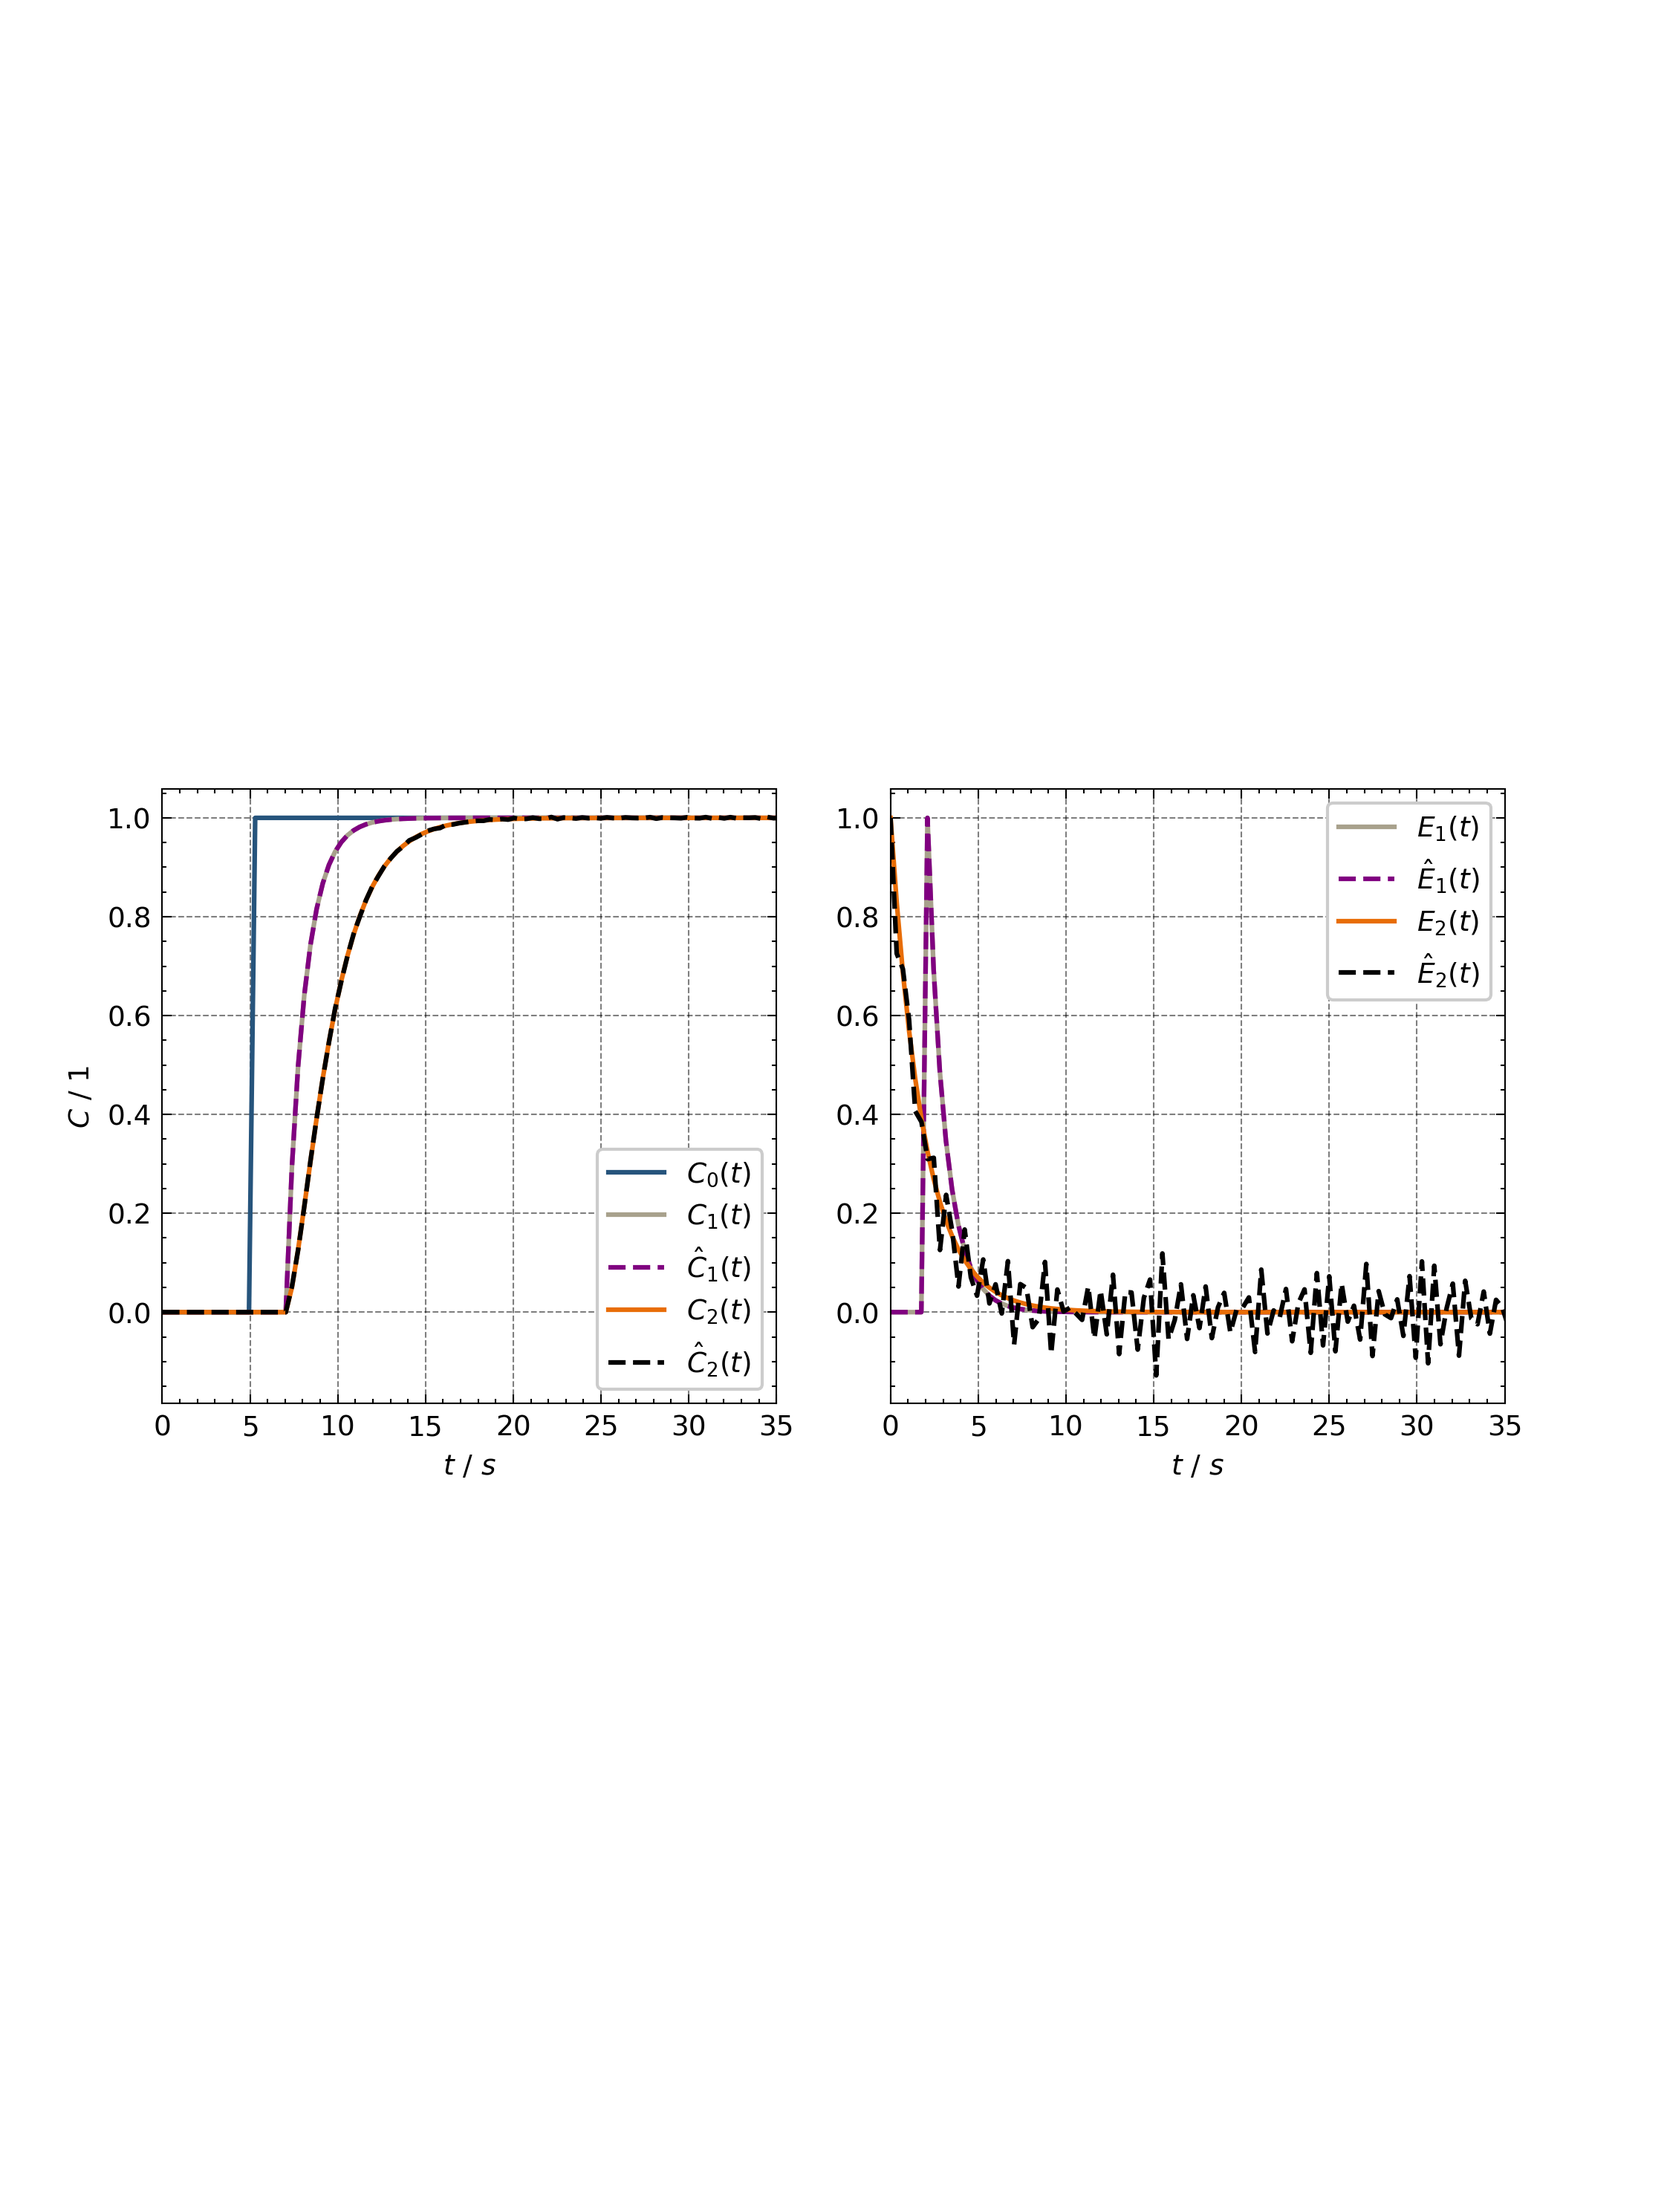
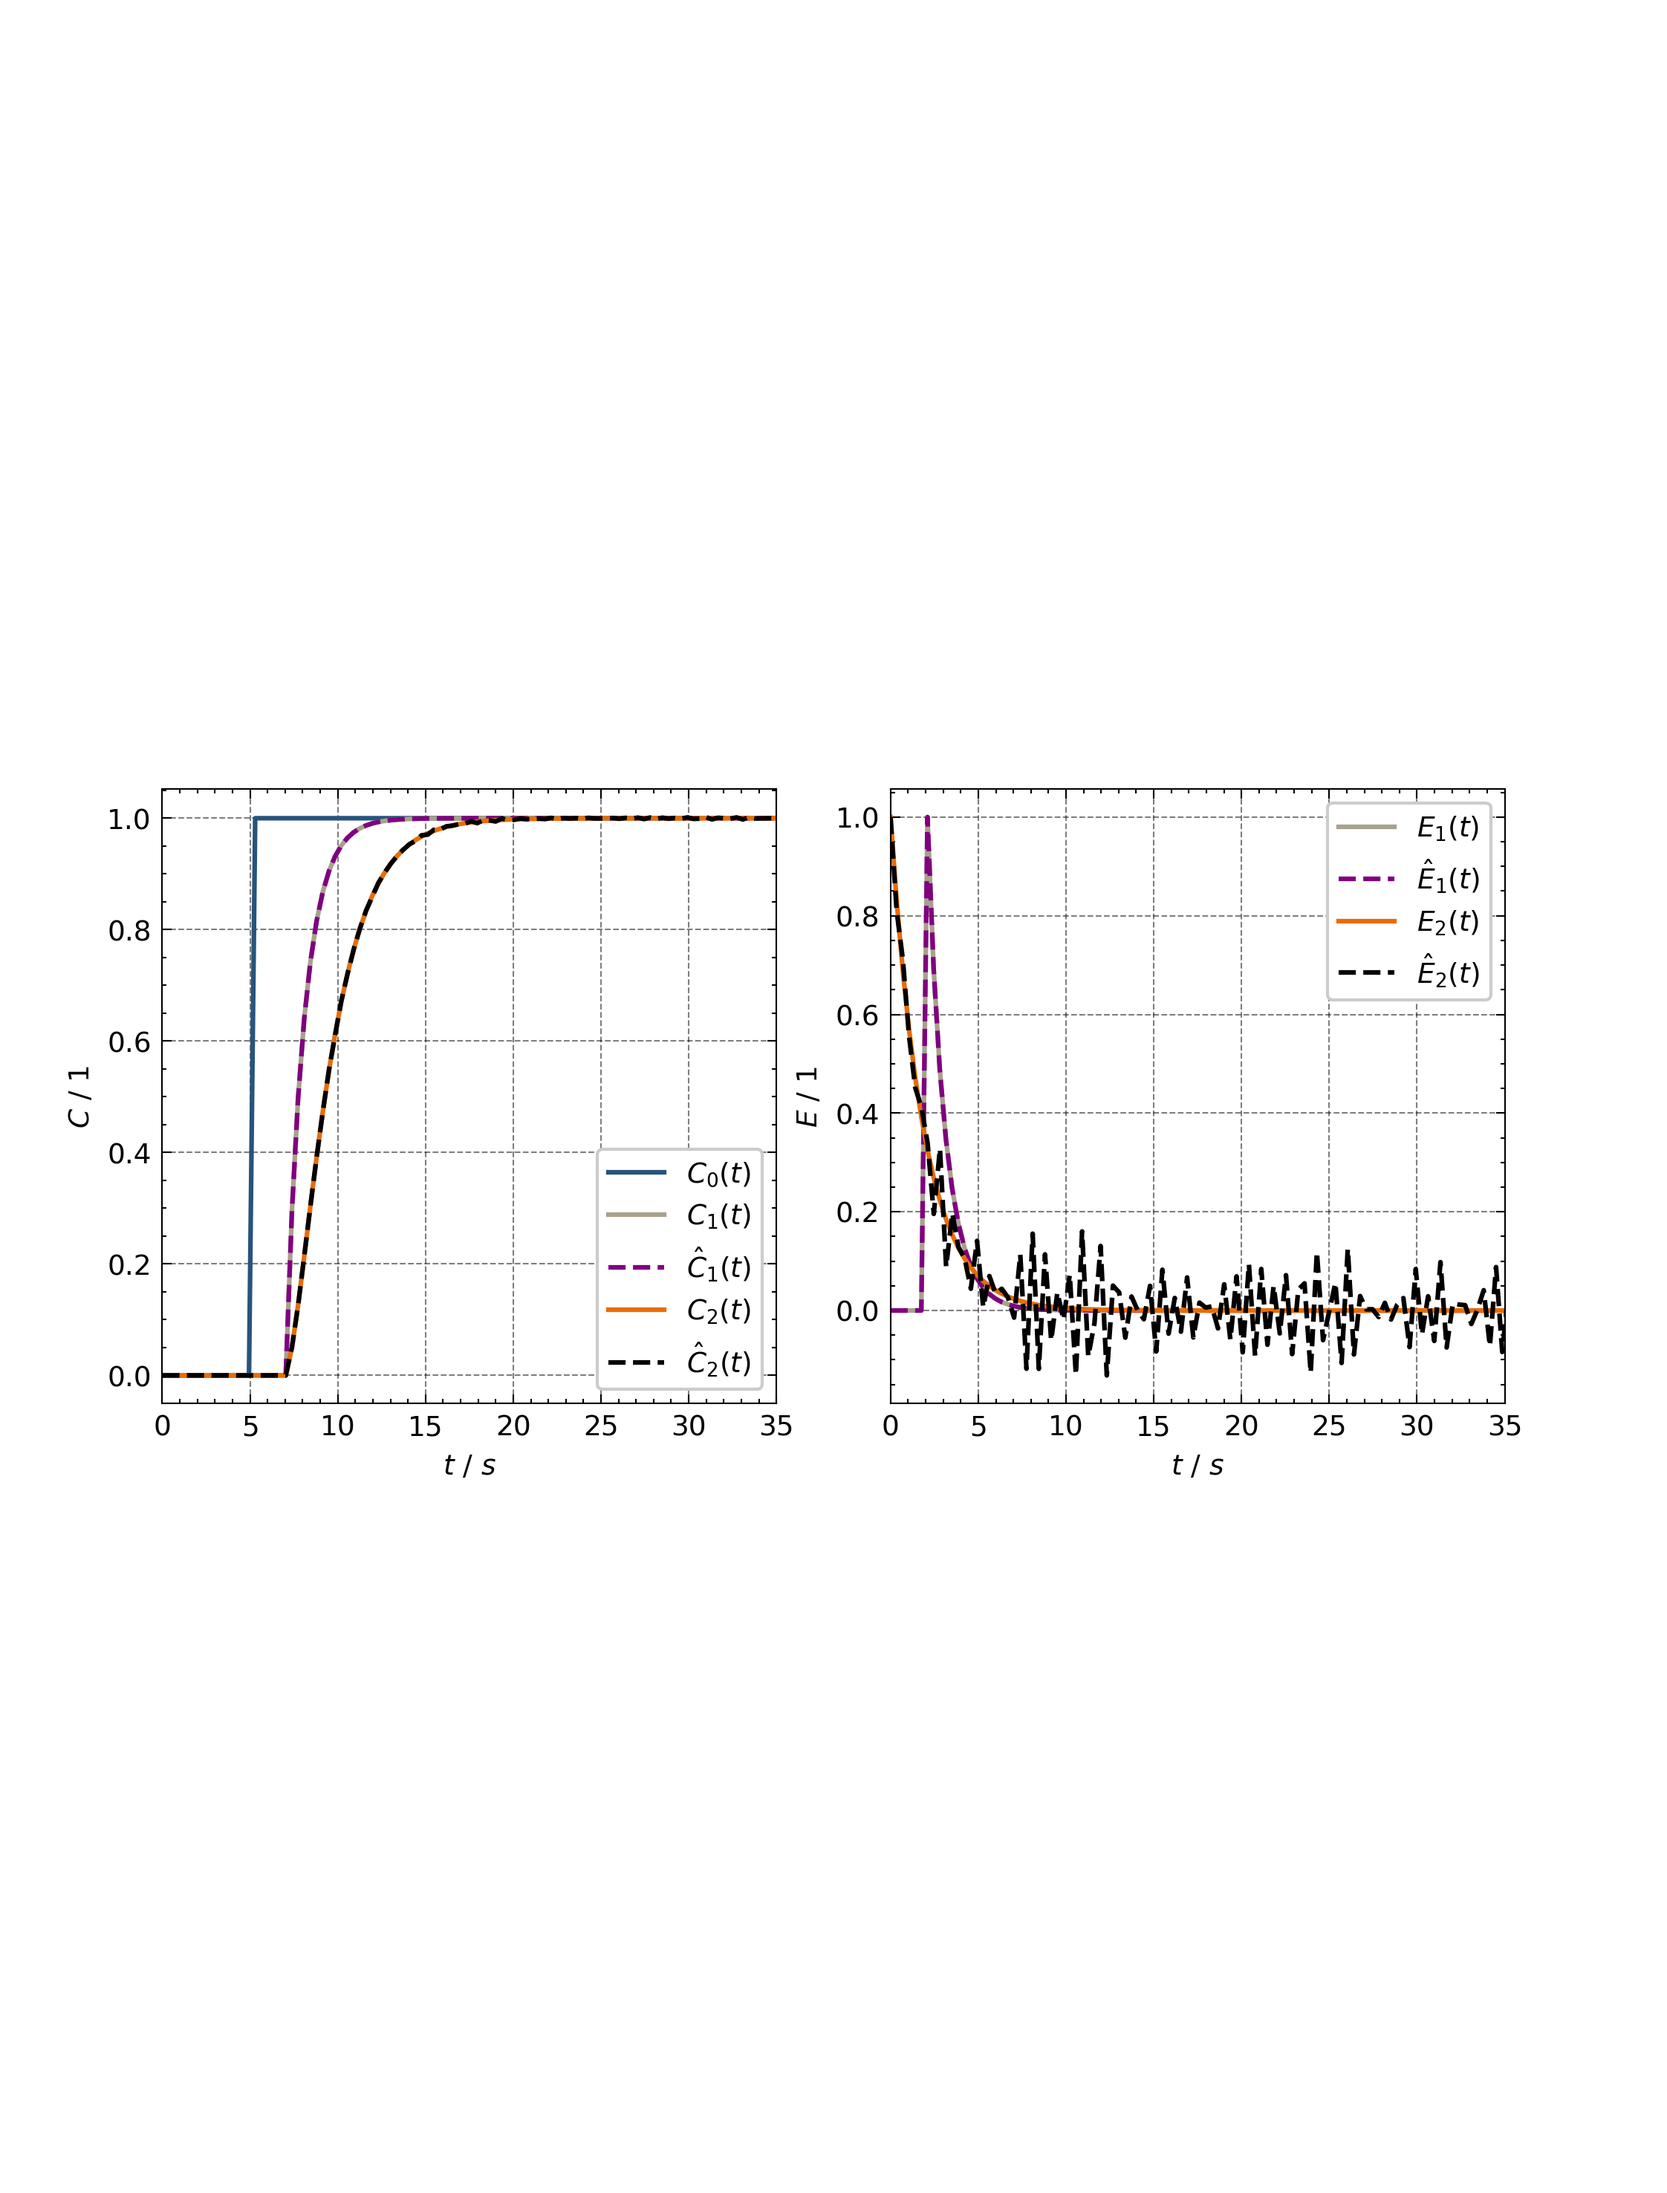
plot 2nd E

diff --git a/Experiments/Preliminary/2nd_Layer_Adler_Cholete/2bd_Layer_Adler_cholete_draft.py b/Experiments/Preliminary/2nd_Layer_Adler_Cholete/2bd_Layer_Adler_cholete_draft.py
@@ -515,11 +515,9 @@ axs = make_square_subplots(
     h_sep=1.3 * cm2inch,  
     v_sep=1 * cm2inch, 
     sharex=True,
-    sharey=True,
+    sharey=False,
     xlabel=[r"$t$ / $s$", r"$t$ / $s$"], 
-    ylabel=
-        [r"$C$ / $1$"
-    ])
+    ylabel=[[r"$C$ / $1$", r"$E$ / $1$"]] )
 
 axs[0, 0].plot(t_1_in_reshaped, c_1_in_reshaped, label=r"$C_0(t)$", color=ICIWcolors.CERULEAN)
 axs[0, 0].plot(
@@ -574,6 +572,7 @@ axs[0, 0].legend(loc="best")
 axs[0, 1].legend(loc="best")
 plt.savefig(os.path.join(base_dir, f"ad_ch_uncut.png"), dpi=300)
 plt.show()
+
 
 
 
